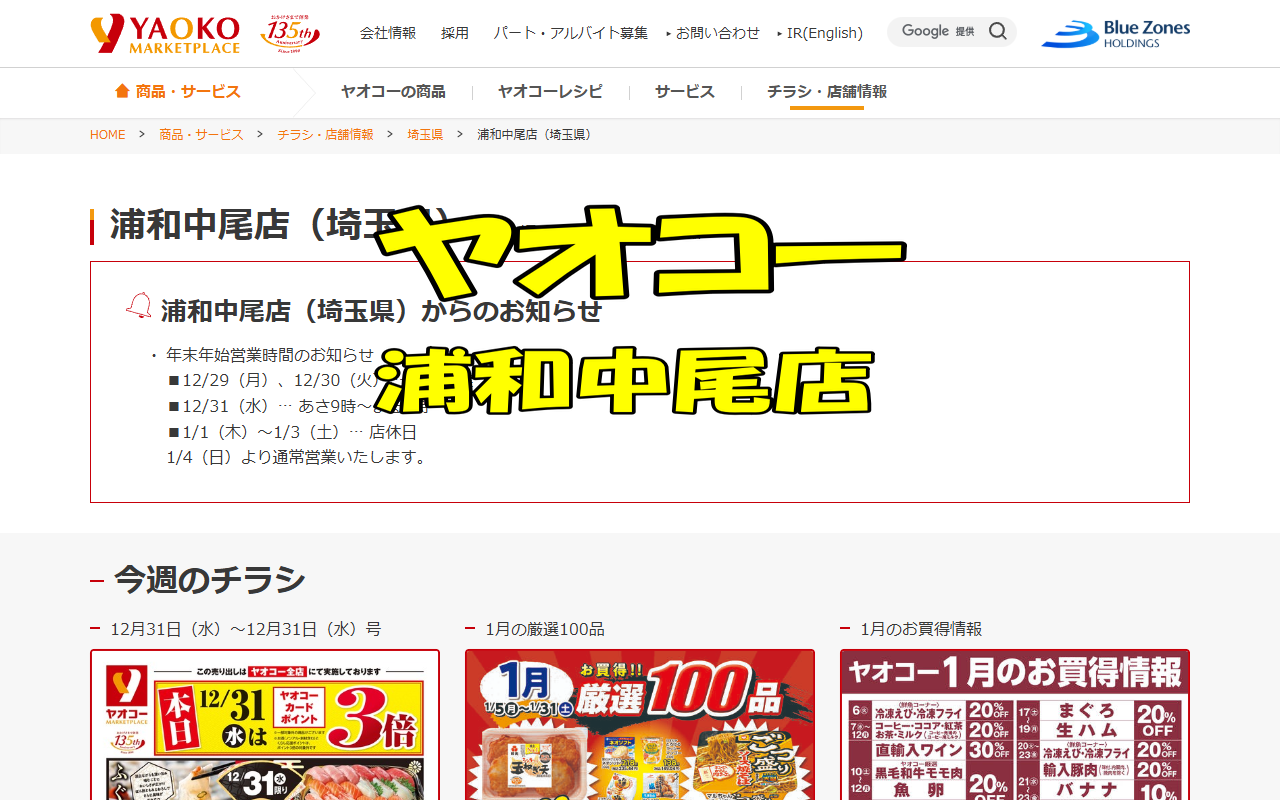
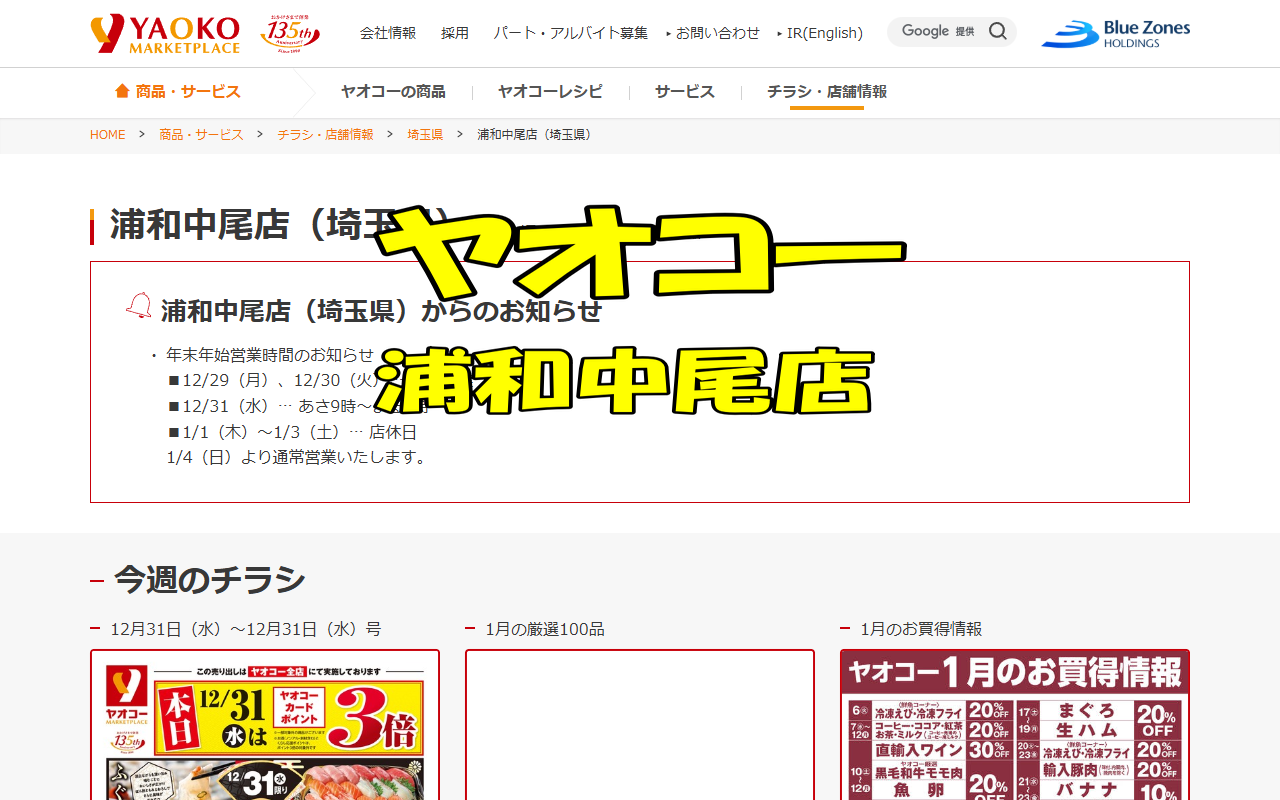
６回目

Changed region(s): [[0.3438, 0.8125, 0.6562, 1.0]]

diff --git a/public/index.html b/public/index.html
@@ -87,7 +87,7 @@
         <div class="store-info">
             <h2 class="store-name">業務スーパー 浦和花月店</h2>
             <div class="status-row">
-                <div class="date-box"><span class="date-label">前回</span><span class="date-val">---</span></div>
+                <div class="date-box"><span class="date-label">前回</span><span class="date-val">2025/12/31</span></div>
                 <div class="date-box"><span class="date-label">最新</span><span class="date-val latest">2025/12/31</span></div>
                 
             </div>
@@ -145,7 +145,7 @@
             <div class="status-row">
                 <div class="date-box"><span class="date-label">前回</span><span class="date-val">---</span></div>
                 <div class="date-box"><span class="date-label">最新</span><span class="date-val latest">2025/12/31</span></div>
-                <span class="new-badge">✨ NEW更新</span>
+                
             </div>
         </div>
         <a href="https://www.donki.com/store/shop_detail.php?shop_id=227" target="_blank">
